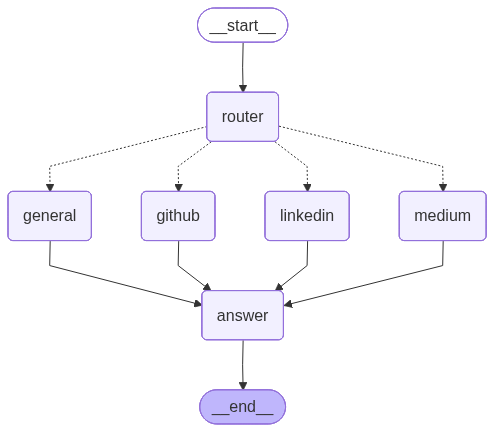
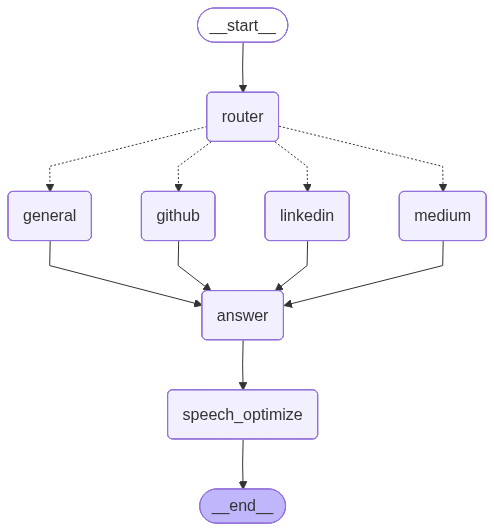
feat: Add another agent to optimize the LLM's answer for subsequent TTS processing

diff --git a/src/run_agent.py b/src/run_agent.py
@@ -22,6 +22,7 @@ class AgentState(TypedDict):
     messages: Annotated[list, add_messages]
     english_query: str
     vector_store: Chroma
+    raw_answer: str  # Store the answer before speech optimization
 
 
 def load_vector_store():
@@ -252,7 +253,70 @@ CONTEXT:
     ]
     
     response = llm.invoke(messages)
+    
+    # Store raw answer for speech optimization
+    state["raw_answer"] = response.content
     state["messages"].append(AIMessage(content=response.content))
+    
+    return state
+
+
+def speech_optimization_node(state: AgentState) -> AgentState:
+    """Optimize answer for voice output."""
+    
+    llm = ChatOpenAI(
+        model="gpt-4o",  
+        temperature=0
+    )
+    
+    raw_answer = state["raw_answer"]
+    
+    speech_prompt = f"""You are a speech optimization assistant. Transform the following answer to be natural and clear when spoken aloud by a text-to-speech system.
+
+CRITICAL RULES:
+1. Remove ALL markdown formatting (**bold**, *italic*, `code`, etc.) - just plain text
+2. Remove ALL special characters like asterisks, backticks, underscores used for formatting
+3. Do NOT add any preamble like "Sure! Here's..." or "Here is..." - start DIRECTLY with the answer content
+4. Use simple, conversational language
+5. Break long sentences into shorter ones for better pacing
+6. Replace technical jargon with clear explanations when possible
+7. Add natural transitions between ideas
+8. Keep the same factual content, just make it speech-friendly
+9. Keep it concise but natural
+10. Article titles should be mentioned naturally without quotes or formatting (e.g., "the article Denoising Images with Autoencoders" not "the article *Denoising Images with Autoencoders*")
+
+ORIGINAL ANSWER:
+{raw_answer}
+
+Provide ONLY the speech-optimized answer with NO preamble:"""
+    
+    response = llm.invoke([HumanMessage(content=speech_prompt)])
+    
+    # Additional cleanup to ensure no markdown artifacts remain
+    cleaned_content = response.content
+    
+    # Remove common markdown patterns that might slip through
+    import re
+    cleaned_content = re.sub(r'\*\*([^*]+)\*\*', r'\1', cleaned_content)  # **bold**
+    cleaned_content = re.sub(r'\*([^*]+)\*', r'\1', cleaned_content)      # *italic*
+    cleaned_content = re.sub(r'`([^`]+)`', r'\1', cleaned_content)        # `code`
+    cleaned_content = re.sub(r'_([^_]+)_', r'\1', cleaned_content)        # _underline_
+    cleaned_content = re.sub(r'#{1,6}\s+', '', cleaned_content)           # # headers
+    
+    # Remove any preamble phrases if they slipped through
+    preamble_patterns = [
+        r'^Sure[!,.]?\s+Here[\'s\s]+.*?:\s*',
+        r'^Here[\'s\s]+.*?:\s*',
+        r'^Okay[!,.]?\s+',
+        r'^Alright[!,.]?\s+'
+    ]
+    for pattern in preamble_patterns:
+        cleaned_content = re.sub(pattern, '', cleaned_content, flags=re.IGNORECASE)
+    
+    cleaned_content = cleaned_content.strip()
+    
+    # Replace the last message with speech-optimized version
+    state["messages"][-1] = AIMessage(content=cleaned_content)
     
     return state
 
@@ -268,6 +332,7 @@ def create_graph(vector_store: Chroma):
     workflow.add_node("medium", retrieve_medium)
     workflow.add_node("general", retrieve_general)
     workflow.add_node("answer", answer_node)
+    workflow.add_node("speech_optimize", speech_optimization_node)
     
     # Edges
     workflow.add_edge(START, "router")
@@ -285,7 +350,8 @@ def create_graph(vector_store: Chroma):
     workflow.add_edge("github", "answer")
     workflow.add_edge("medium", "answer")
     workflow.add_edge("general", "answer")
-    workflow.add_edge("answer", END)
+    workflow.add_edge("answer", "speech_optimize")
+    workflow.add_edge("speech_optimize", END)
     
     return workflow.compile()
 
@@ -317,7 +383,8 @@ class DigitalTwin:
         state = {
             "messages": [HumanMessage(content=question)],
             "english_query": "",
-            "vector_store": self.vector_store
+            "vector_store": self.vector_store,
+            "raw_answer": ""
         }
         
         result = self.graph.invoke(state)
